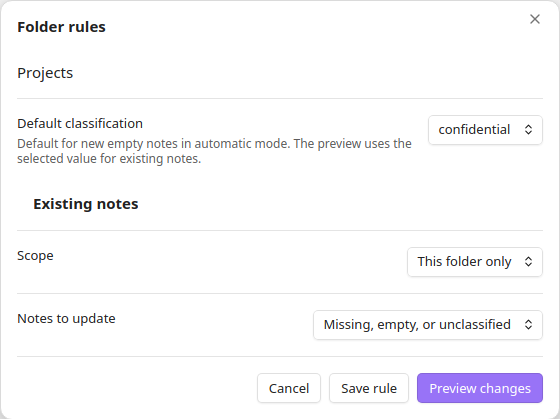
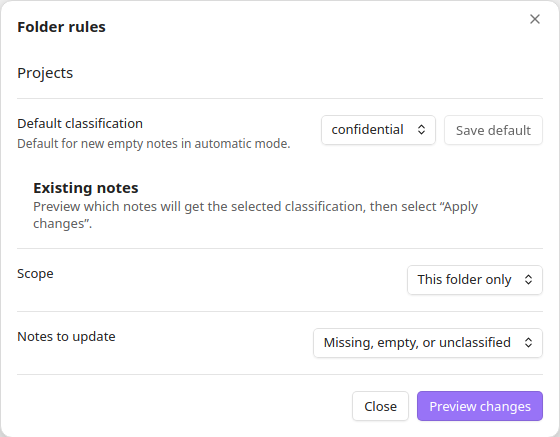
fix: clarify folder default and existing-note actions

diff --git a/src/folder-settings-modal.ts b/src/folder-settings-modal.ts
@@ -12,7 +12,7 @@ export interface FolderSettingsDraft {
 }
 
 export type FolderSettingsAction =
-  | { kind: "save"; classification: string | null }
+  | { kind: "save"; draft: FolderSettingsDraft }
   | { kind: "preview"; value: string; draft: FolderSettingsDraft };
 
 export class FolderSettingsModal extends Modal {
@@ -20,6 +20,7 @@ export class FolderSettingsModal extends Modal {
     app: App,
     private readonly path: string,
     private readonly draft: FolderSettingsDraft,
+    private readonly savedClassification: string,
     private readonly fallback: FolderDefault,
     private readonly settings: ClassificatorSettings,
     private readonly translate: Translator,
@@ -31,7 +32,9 @@ export class FolderSettingsModal extends Modal {
   override onOpen(): void {
     const { fallback, settings, translate: t } = this;
     const draft = { ...this.draft };
+    let saveButton: ButtonComponent | undefined;
     let previewButton: ButtonComponent | undefined;
+    const canSave = () => draft.classification !== this.savedClassification;
     const target = () => draft.classification || fallback.value;
     const canPreview = () => settings.classifications.some(({ value }) => value === target());
     this.modalEl.addClass("classificator-folder-settings-modal");
@@ -46,6 +49,7 @@ export class FolderSettingsModal extends Modal {
       ? t("folder.global", { value: fallbackValue })
       : t("folder.inherited", { folder: fallback.folderPath, value: fallbackValue });
     new Setting(this.contentEl).setName(t("folder.default")).setDesc(t("folder.description"))
+      .setClass("classificator-folder-actions")
       .addDropdown((dropdown) => {
         dropdown.selectEl.setAttribute("aria-label", t("folder.default"));
         dropdown.addOption("", fallbackLabel);
@@ -55,11 +59,20 @@ export class FolderSettingsModal extends Modal {
         }
         dropdown.setValue(draft.classification).onChange((value) => {
           draft.classification = value;
+          saveButton?.setDisabled(!canSave());
           previewButton?.setDisabled(!canPreview());
+        });
+      })
+      .addButton((button) => {
+        saveButton = button;
+        button.setButtonText(t("folder.saveRule")).setDisabled(!canSave()).onClick(() => {
+          this.onFinish({ kind: "save", draft });
+          this.close();
         });
       });
 
-    new Setting(this.contentEl).setHeading().setName(t("folder.existingNotes"));
+    new Setting(this.contentEl).setHeading().setName(t("folder.existingNotes"))
+      .setDesc(t("folder.existingNotesHelp"));
     new Setting(this.contentEl).setName(t("folder.scope")).addDropdown((dropdown) => {
       dropdown.selectEl.setAttribute("aria-label", t("folder.scope"));
       dropdown.addOption("direct", t("folder.direct"))
@@ -75,11 +88,7 @@ export class FolderSettingsModal extends Modal {
         .onChange((value) => { draft.mode = value === "always" ? "always" : "unclassified"; });
     });
     new Setting(this.contentEl).setClass("classificator-folder-actions")
-      .addButton((button) => button.setButtonText(t("actions.cancel")).onClick(() => this.close()))
-      .addButton((button) => button.setButtonText(t("folder.saveRule")).onClick(() => {
-        this.onFinish({ kind: "save", classification: draft.classification || null });
-        this.close();
-      }))
+      .addButton((button) => button.setButtonText(t("actions.close")).onClick(() => this.close()))
       .addButton((button) => {
         previewButton = button;
         button.setButtonText(t("batch.preview")).setCta().setDisabled(!canPreview()).onClick(() => {

diff --git a/tests/e2e/classification.e2e.ts b/tests/e2e/classification.e2e.ts
@@ -609,19 +609,32 @@ describe("Classificator in Obsidian", () => {
     await expect($(`${folderClassification} option:checked`)).toHaveText("Geerbt von Projects (confidential)");
   });
 
-  it("creates _meta.md with the classification selected in a folder's context menu", async () => {
+  it("saves the folder default and keeps the scope for updating existing notes", async () => {
     await createFolder("Projects");
-    const note = "Projects/Brief.md";
+    await createFolder("Projects/Archive");
+    const note = "Projects/Archive/Brief.md";
     const contents = "Existing brief.\n";
     await createFile(note, contents);
     await openFolderSettings("Projects");
+    const save = () => $(folderModal).$("button=Standard speichern");
+    await expect(save()).toBeDisabled();
     await $(folderClassification).selectByAttribute("value", "internal");
-    await $(folderModal).$("button=Regel speichern").click();
+    await $(folderScope).selectByAttribute("value", "recursive");
+    await $(folderNoteMode).selectByAttribute("value", "always");
+    await save().click();
 
-    await openFolderSettings("Projects");
-    expect(await $(folderClassification).getValue()).toBe("internal");
+    await expect(save()).toBeDisabled();
+    await expect($(folderClassification)).toHaveValue("internal");
+    await expect($(folderScope)).toHaveValue("recursive");
+    await expect($(folderNoteMode)).toHaveValue("always");
     expect(await obsidianPage.read("Projects/_meta.md")).toMatch(/^classification: internal$/m);
     expect(await obsidianPage.read(note)).toBe(contents);
+
+    await $(folderModal).$("button=Änderungen prüfen").click();
+    await expect($(preview).$("summary=Neu setzen (1)")).toBeDisplayed();
+    expect(await obsidianPage.read(note)).toBe(contents);
+    await $(preview).$("button=Änderungen anwenden").click();
+    await browser.waitUntil(async () => /^classification: internal$/m.test(await obsidianPage.read(note)));
   });
 
   it("previews folder batches by scope, applies them separately, and skips changes made after review", async () => {
@@ -692,7 +705,7 @@ describe("Classificator in Obsidian", () => {
     expect(await obsidianPage.read(nestedRules)).toBe(ruleContents);
     expect(await obsidianPage.read(attachment)).toBe("Attachment contents.");
     expect(await obsidianPage.read(existing)).toBe(outsideContents);
-    await $(folderModal).$("button=Regel speichern").click();
+    await $(folderModal).$("button=Standard speichern").click();
     await browser.waitUntil(async () => /^classification: confidential$/m.test(await obsidianPage.read("Projects/_meta.md")));
   });
 
@@ -704,7 +717,7 @@ describe("Classificator in Obsidian", () => {
     await openFolderSettings("Projects");
     expect(await $(folderClassification).getValue()).toBe("confidential");
     await $(folderClassification).selectByAttribute("value", "");
-    await $(folderModal).$("button=Regel speichern").click();
+    await $(folderModal).$("button=Standard speichern").click();
 
     await browser.waitUntil(async () => !(await obsidianPage.read("Projects/_meta.md")).includes("classification:"));
     const metadata = await obsidianPage.read("Projects/_meta.md");

diff --git a/src/main.ts b/src/main.ts
@@ -287,18 +287,22 @@ export default class Classificator extends Plugin {
         draft ??= { classification: currentClassification ?? "", mode: "unclassified", recursive: false };
         const dialogDraft = draft;
         const action = await new Promise<FolderSettingsAction | undefined>((resolve) => {
-          this.modal = new FolderSettingsModal(this.app, path, dialogDraft, fallback, settings, this.translate, resolve);
+          this.modal = new FolderSettingsModal(
+            this.app, path, dialogDraft, currentClassification ?? "", fallback, settings, this.translate, resolve,
+          );
           this.modal.open();
         });
         this.modal = undefined;
         if (!action || !isCurrent()) return;
-        if (action.kind === "save") {
-          if (action.classification !== (currentClassification ?? null)) {
-            await writeFolderClassification(this.app, folder, action.classification);
-          }
-          return;
-        }
         draft = action.draft;
+        if (action.kind === "save") {
+          const classification = draft.classification || null;
+          if (classification !== (currentClassification ?? null)) {
+            await writeFolderClassification(this.app, folder, classification);
+            if (isCurrent()) new Notice(this.translate("folder.defaultSaved"));
+          }
+          continue;
+        }
         const notes: TFile[] = [];
         if (draft.recursive) {
           Vault.recurseChildren(folder, (file) => {

diff --git a/README.md b/README.md
@@ -98,9 +98,9 @@ classification: confidential
 
 In **Apply default value** mode, a folder’s `classification` takes precedence over the global default for new empty notes. Enable **Inherit folder rules** in Classificator settings to let folders without a rule use the nearest ancestor’s rule, including a rule at the vault root. The folder dialog shows the inherited value and its source. Classificator uses the global default when no applicable folder provides a rule. If the applicable rule contains an unconfigured value, automatic classification skips the note until the rule is corrected.
 
-To remove a folder’s own rule, choose the **Global** or **Inherited from** option and select **Save rule**. This updates the default for future notes.
+Select **Save default** beside the classification picker to save the default for future notes. To remove the folder’s own rule, choose **Global** or **Inherited from** before saving. The dialog stays open so you can also update existing notes.
 
-To update existing notes, choose the scope and which notes to update, then select **Preview changes**. By default it considers notes directly in the folder with a missing, empty, or `unclassified` value. You can include subfolders or switch to all notes. For a recursive batch, the selected value applies throughout the scope, including subfolders with their own rule. **Apply changes** updates the notes. Use **Save rule** separately to persist the selected default.
+Under **Existing notes**, choose the scope and which notes to update, then select **Preview changes**. By default it considers notes directly in the folder with a missing, empty, or `unclassified` value. You can include subfolders or switch to all notes. For a recursive batch, the selected value applies throughout the scope, including subfolders with their own rule. Select **Apply changes** in the preview to update the notes.
 
 ![Folder rules dialog with a default classification, scope and preview for existing notes](assets/screenshots/folder-rules.png)
 

diff --git a/CHANGELOG.md b/CHANGELOG.md
@@ -2,6 +2,10 @@
 
 ## [Unreleased]
 
+### Changed
+
+- Place **Save default** beside the folder default. Keep the dialog open with the chosen scope so you can review and apply changes to existing notes afterward.
+
 ## [0.5.0] - 2026-11-24
 
 ### Added
